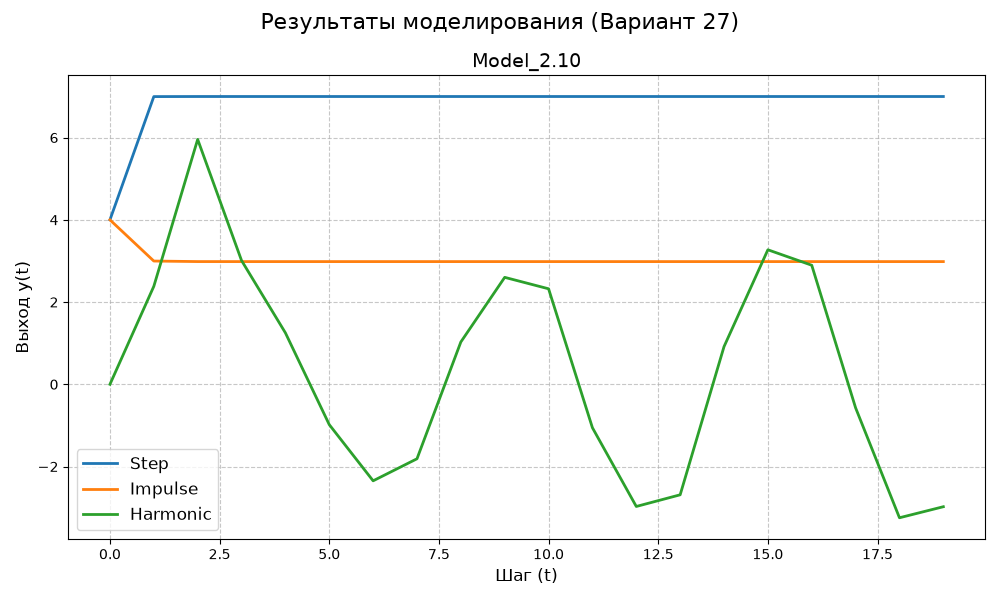
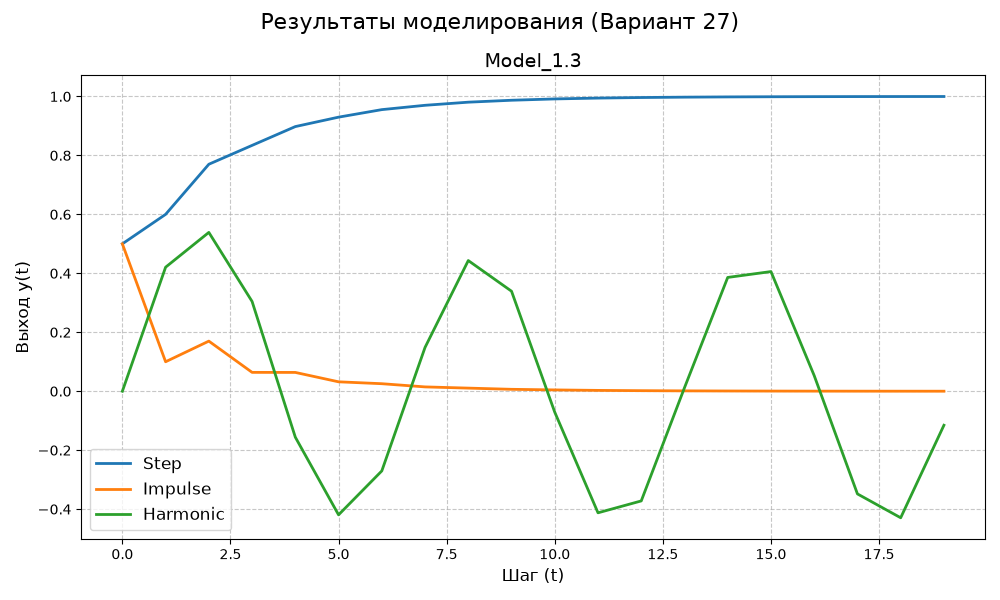
[task_01] Шульжик ЛР1

diff --git a/trunk/ii03027/task_01/plot.py b/trunk/ii03027/task_01/plot.py
@@ -15,37 +15,49 @@ except FileNotFoundError:
     exit()
 
 def show_plot():
-    models = df['Model'].unique()
-    fig, axes = plt.subplots(1, len(models), figsize=(10 * len(models), 6), num="График")
-    fig.suptitle('Результаты моделирования (Вариант 27)', fontsize=16)
+    selected_signal = combo_signal.get() 
+    model_name = df['Model'].iloc[0]    
+    
+    if selected_signal == "Все сигналы":
+        plot_data = df
+    else:
+        plot_data = df[df['Signal'] == selected_signal]
 
-    if len(models) == 1:
-        axes = [axes]
+    fig, ax = plt.subplots(figsize=(10, 6), num=f"График: {selected_signal}")
+    fig.suptitle(f'Модель: {model_name} | Сигнал: {selected_signal}', fontsize=16)
 
-    for i, model_name in enumerate(models):
-        ax = axes[i]
-        model_data = df[df['Model'] == model_name]
-        
-        for signal in model_data['Signal'].unique():
-            sig_data = model_data[model_data['Signal'] == signal]
+    if selected_signal == "Все сигналы":
+        for signal in plot_data['Signal'].unique():
+            sig_data = plot_data[plot_data['Signal'] == signal]
             ax.plot(sig_data['Step'], sig_data['y'], label=signal, linewidth=2)
-        
-        ax.set_title(model_name, fontsize=14)
-        ax.set_xlabel('Шаг (t)', fontsize=12)
-        ax.set_ylabel('Выход y(t)', fontsize=12)
-        ax.legend(fontsize=12)
-        ax.grid(True, linestyle='--', alpha=0.7)
+    else:
+        ax.plot(plot_data['Step'], plot_data['y'], label=selected_signal, linewidth=2.5, color='red')
+
+    ax.set_xlabel('Шаг симуляции (t)', fontsize=12)
+    ax.set_ylabel('Выход y(t)', fontsize=12)
+    ax.legend(fontsize=12)
+    ax.grid(True, linestyle='--', alpha=0.7)
 
     plt.tight_layout()
-    plt.savefig('doc/graphs/plot_results.png') 
+    plt.savefig(f'doc/graphs/plot_{selected_signal}.png') 
     plt.show()
 
 root = tk.Tk()
-root.title("Результаты симуляции")
-root.geometry("900x700")
+root.title("Результаты симуляции (Вариант 27)")
+root.geometry("1000x700")
+root.configure(bg="#f0f0f0") 
 
-btn = tk.Button(root, text="Показать график", command=show_plot, font=("Arial", 12), bg="#4CAF50", fg="white")
-btn.pack(pady=10)
+control_frame = tk.Frame(root, bg="#f0f0f0", pady=10)
+control_frame.pack(fill='x', padx=10)
+
+tk.Label(control_frame, text="Выберите сигнал для графика:", bg="#f0f0f0", font=("Arial", 11)).pack(side='left', padx=(0, 10))
+
+combo_signal = ttk.Combobox(control_frame, values=["Все сигналы", "Step", "Impulse", "Harmonic"], state="readonly", font=("Arial", 11))
+combo_signal.current(0) 
+combo_signal.pack(side='left', padx=(0, 20))
+
+btn_show = tk.Button(control_frame, text="Показать график", command=show_plot, font=("Arial", 11, "bold"), bg="#4CAF50", fg="white", relief="flat", padx=10)
+btn_show.pack(side='left')
 
 frame = ttk.Frame(root)
 frame.pack(fill='both', expand=True, padx=10, pady=10)
@@ -53,7 +65,13 @@ frame.pack(fill='both', expand=True, padx=10, pady=10)
 scrollbar = ttk.Scrollbar(frame)
 scrollbar.pack(side='right', fill='y')
 
-tree = ttk.Treeview(frame, yscrollcommand=scrollbar.set)
+style = ttk.Style()
+style.theme_use("clam") 
+style.configure("Treeview.Heading", font=('Arial', 11, 'bold'), background="#4a4a4a", foreground="white")
+style.map("Treeview.Heading", background=[('active', '#3a3a3a')]) 
+style.configure("Treeview", font=('Arial', 10), rowheight=25)
+
+tree = ttk.Treeview(frame, yscrollcommand=scrollbar.set, style="Treeview")
 tree.pack(side='left', fill='both', expand=True)
 scrollbar.config(command=tree.yview)
 
@@ -63,10 +81,14 @@ tree['show'] = 'headings'
 
 for col in columns:
     tree.heading(col, text=col)
-    tree.column(col, width=100, anchor='center')
+    tree.column(col, width=120, anchor='center')
 
-for _, row in df[columns].iterrows():
-    tree.insert('', 'end', values=list(row))
+for index, (_, row) in enumerate(df[columns].iterrows()):
+    tag = 'evenrow' if index % 2 == 0 else 'oddrow'
+    tree.insert('', 'end', values=list(row), tags=(tag,))
 
-print("Окно с таблицей открыто. Нажмите кнопку, чтобы увидеть график.")
+tree.tag_configure('evenrow', background='#ffffff')
+tree.tag_configure('oddrow', background='#f9f9f9')
+
+print("Окно с таблицей открыто. Выберите сигнал и нажмите кнопку.")
 root.mainloop()
